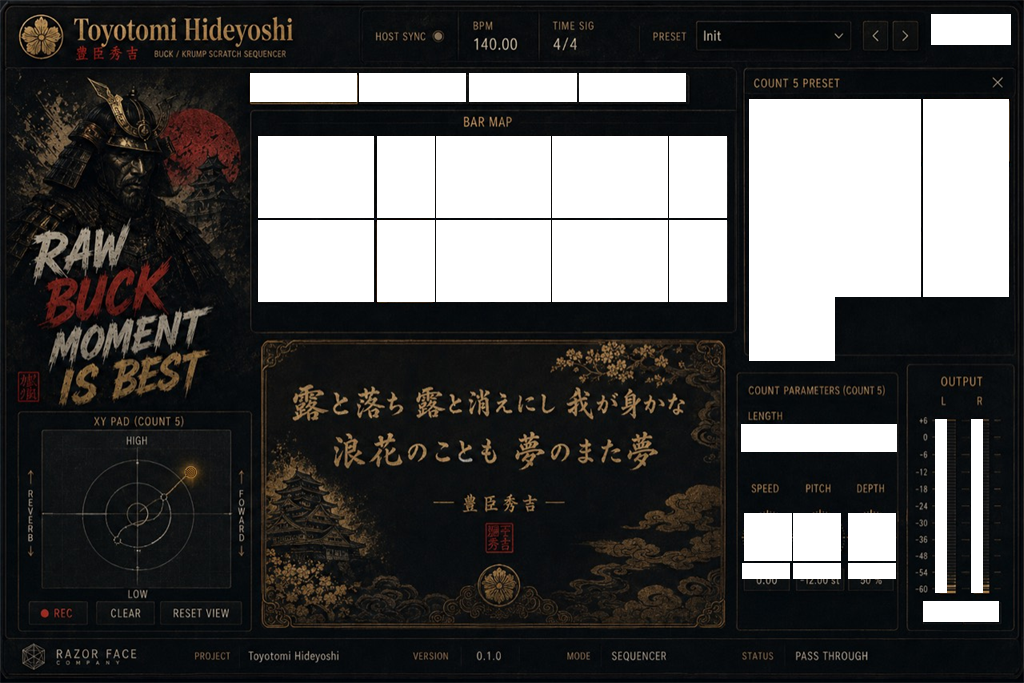
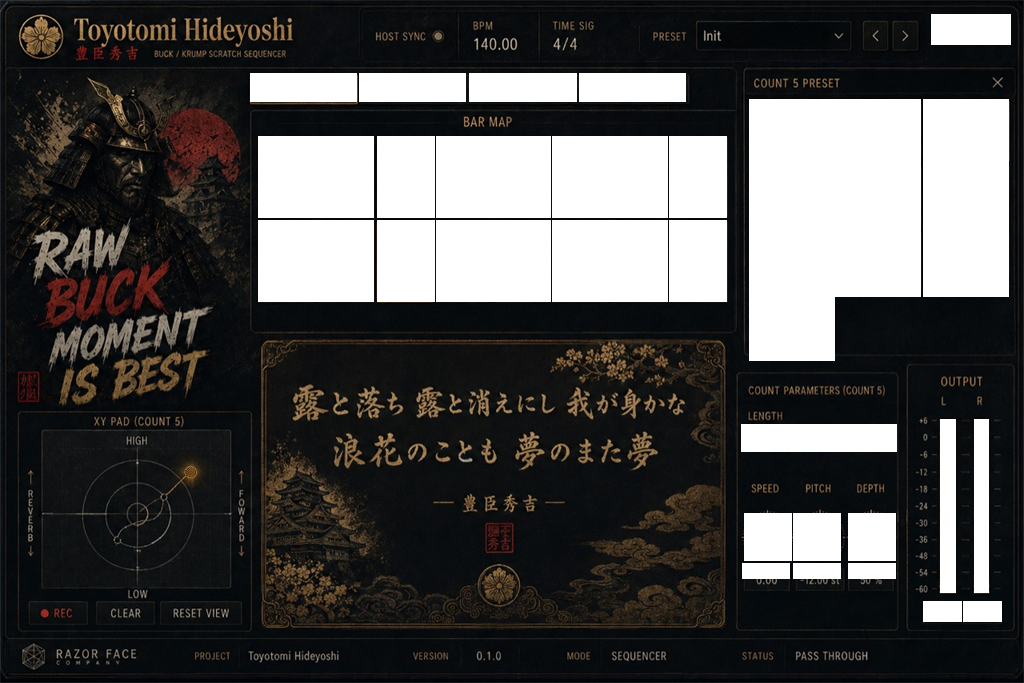
Fit output meter artwork to measured reference slots

Changed region(s): [[0.9062, 0.6149, 0.9688, 0.8917]]

diff --git a/tests/RuntimeSmokeTests.cpp b/tests/RuntimeSmokeTests.cpp
@@ -750,27 +750,45 @@ int main()
     // values, but no BAR/PRESET/LENGTH state image may be gold.
     state.selectTab (0); state.setBypass (false);
     const auto freshImage = render (*editor);
-    const auto visibleMeterCenter = [] (juce::Rectangle<int> bounds)
+    // Measure the independent reference's bottom lit segments. Do not compare
+    // implementation coordinates against constants from the same header.
+    const std::array<juce::Rectangle<int>, 2> referenceSearch {{{936,592,24,1},{970,592,23,1}}};
+    std::array<juce::Rectangle<int>, 2> expectedSlots;
+    for (int ch = 0; ch < 2; ++ch)
     {
-        return (float) bounds.getX() + GeneratedLayout::outputMeterVisibleCenterX;
-    };
-    pass &= check (freshImage.isValid()
-                && std::abs (visibleMeterCenter (GeneratedLayout::outputLBounds()) - GeneratedLayout::outputLSlotCenterX) <= 0.5f
-                && std::abs (visibleMeterCenter (GeneratedLayout::outputRBounds()) - GeneratedLayout::outputRSlotCenterX) <= 0.5f,
-                   "v2-output-visible-meter-center-layout-contract");
-    juce::AudioBuffer<float> outputLayoutProbe (2, 32); outputLayoutProbe.clear();
-    outputLayoutProbe.setSample (0, 0, 1.0f); outputLayoutProbe.setSample (1, 0, 1.0f);
-    juce::MidiBuffer outputLayoutMidi; processor.processBlock (outputLayoutProbe, outputLayoutMidi);
-    juce::Thread::sleep (50);
-    juce::Timer::callPendingTimersSynchronously();
-    const auto outputLayoutImage = render (*editor);
-    const auto renderedLeftMeter = visibleMeterBounds (outputLayoutImage, GeneratedLayout::outputLBounds());
-    const auto renderedRightMeter = visibleMeterBounds (outputLayoutImage, GeneratedLayout::outputRBounds());
-    const auto centerX = [] (juce::Rectangle<int> bounds) { return (float) bounds.getX() + (float) bounds.getWidth() / 2.0f; };
-    pass &= check (! renderedLeftMeter.isEmpty() && ! renderedRightMeter.isEmpty()
-                && std::abs (centerX (renderedLeftMeter) - GeneratedLayout::outputLSlotCenterX) <= 0.5f
-                && std::abs (centerX (renderedRightMeter) - GeneratedLayout::outputRSlotCenterX) <= 0.5f,
-                   "v2-output-rendered-visible-meter-center-ssot");
+        const auto edge = visibleMeterBounds (visualReference, referenceSearch[(size_t) ch]);
+        expectedSlots[(size_t) ch] = {edge.getX(),419,edge.getWidth(),174};
+    }
+    pass &= check (GeneratedLayout::outputLBounds() == expectedSlots[0]
+                && GeneratedLayout::outputRBounds() == expectedSlots[1], "v2-output-reference-slot-geometry");
+    const std::array<juce::Image, 2> preparedLeds {{resourceImage("output_meter_left_png"),resourceImage("output_meter_right_png")}};
+    for (int ch = 0; ch < 2; ++ch)
+        pass &= check (preparedLeds[(size_t) ch].getWidth() == expectedSlots[(size_t) ch].getWidth()
+                    && preparedLeds[(size_t) ch].getHeight() == expectedSlots[(size_t) ch].getHeight(),
+                       "v2-output-prepared-native-size");
+    for (const auto levels : std::array<std::array<float,2>,6> {{{{-60,-60}},{{6,-60}},{{-60,6}},{{-30,-30}},{{0,0}},{{6,6}}}})
+    {
+        v2->debugSetOutputMeterDb (levels[0],levels[1]);
+        const auto actual = render (*editor);
+        bool pixelsMatch = true;
+        for (int ch = 0; ch < 2; ++ch)
+        {
+            const auto slot = expectedSlots[(size_t) ch];
+            const auto fill = juce::roundToInt(juce::jmap(levels[(size_t) ch],-60.0f,6.0f,0.0f,(float)slot.getHeight()));
+            for (int y=0; y<slot.getHeight(); ++y)
+                for (int x=0; x<slot.getWidth(); ++x)
+                {
+                    // Peak hold may light two pixels immediately above fill.
+                    if (fill > 0 && y >= slot.getHeight()-fill)
+                        pixelsMatch &= actual.getPixelAt(slot.getX()+x,slot.getY()+y) == preparedLeds[(size_t) ch].getPixelAt(x,y);
+                    else if (fill == 0)
+                        pixelsMatch &= actual.getPixelAt(slot.getX()+x,slot.getY()+y).getBrightness() < 0.01f;
+                }
+        }
+        pass &= check(pixelsMatch,"v2-output-final-composite-fill-pixels");
+        pass &= check(png(actual,"v2-output-layout-"+juce::String((int)levels[0])+"-"+juce::String((int)levels[1])+".png"),"v2-output-layout-proof");
+    }
+    v2->debugSetOutputMeterDb(-60,-60);
     int freshGoldBars = 0, freshGoldPresets = 0, freshGoldLengths = 0;
     for (int index = 0; index < 16; ++index)
     {

diff --git a/tools/prepare_output_meter_geometry.py b/tools/prepare_output_meter_geometry.py
@@ -1,0 +1,72 @@
+"""Prepare only OUTPUT assets; preserve every pixel outside the OUTPUT panel."""
+from pathlib import Path
+import hashlib
+import json
+import re
+from PIL import Image, ImageChops, ImageDraw
+
+ROOT = Path(__file__).resolve().parents[1]
+RUNTIME = ROOT / 'Resources/ui-v2/runtime-1024'
+REPORT = ROOT / 'reports/latest/output-geometry'
+REPORT.mkdir(parents=True, exist_ok=True)
+reference_path = ROOT / 'Resources/ui-v2/reference/master-timeline-reference-1024x683.png'
+reference = Image.open(reference_path).convert('RGBA')
+face_path = RUNTIME / 'static/static_faceplate_1024x683.png'
+face = Image.open(face_path).convert('RGBA')
+before = face.copy()
+layout = (ROOT / 'Source/GeneratedLayout.h').read_text()
+
+def bounds(name):
+    m = re.search(name + r'\(\)\s*\{\s*return\s*\{\s*(\d+),\s*(\d+),\s*(\d+),\s*(\d+)', layout)
+    assert m, name
+    return tuple(map(int, m.groups()))
+
+def box(b):
+    x,y,w,h = b
+    return x,y,x+w,y+h
+
+def gold(c):
+    return c[0] > 80 and c[1] > 50 and c[0]-c[2] > 20
+
+led_path = RUNTIME / 'meter_led_strip.png'
+led = Image.open(led_path).convert('RGBA')
+points = [(x,y) for y in range(led.height) for x in range(led.width) if gold(led.getpixel((x,y)))]
+crop = (min(x for x,y in points), min(y for x,y in points), max(x for x,y in points)+1, max(y for x,y in points)+1)
+native = led.crop(crop)
+# Restore all previously cleared OUTPUT rectangles from the exact reference.
+# No global faceplate recomposition: unrelated approved fixes stay untouched.
+old = [(935,419,12,174),(971,419,12,174),(923,601,39,21),(960,601,39,21)]
+for b in old:
+    face.paste(reference.crop(box(b)), box(b))
+rows=[]
+for side,window in [('L',(936,960)),('R',(970,993))]:
+    b = bounds('output'+side+'Bounds')
+    # Independent reference evidence: bottom illuminated segment edges.
+    xs = [x for x in range(*window) if gold(reference.getpixel((x,592)))]
+    assert (b[0],b[2]) == (min(xs), max(xs)-min(xs)+1)
+    assert b[1:4:2] == (419,174)
+    prepared = native.resize((b[2],b[3]), Image.Resampling.LANCZOS)
+    prepared.save(RUNTIME / ('output_meter_'+('left' if side=='L' else 'right')+'.png'))
+    rows.append({'channel':side,'bounds':b,'reference_visible_center_x':(min(xs)+max(xs))/2,'readout':bounds('output'+side+'ReadoutBounds')})
+for name in ['outputLBounds','outputRBounds','outputLReadoutBounds','outputRReadoutBounds']:
+    b=bounds(name)
+    # Retain original RGB underneath the alpha mask.
+    patch=reference.crop(box(b)); patch.putalpha(0)
+    face.paste(patch, box(b))
+panel=bounds('outputPanelBounds')
+diff=ImageChops.difference(before,face)
+diff.paste((0,0,0,0),box(panel))
+assert not diff.getbbox(), 'Non-OUTPUT pixel changed'
+face.save(face_path)
+black=Image.new('RGBA',face.size,(0,0,0,255))
+composite=Image.alpha_composite(black,face)
+for side in ['L','R']:
+    b=bounds('output'+side+'Bounds')
+    composite.alpha_composite(Image.open(RUNTIME/('output_meter_'+('left' if side=='L' else 'right')+'.png')), (b[0],b[1]))
+comparison=Image.new('RGB',(panel[2]*3,panel[3]))
+for i,im in enumerate([reference,Image.alpha_composite(black,before),composite]):
+    comparison.paste(im.crop(box(panel)).convert('RGB'),(i*panel[2],0))
+comparison.resize((panel[2]*9,panel[3]*3)).save(REPORT/'reference-before-after.png')
+data={'reference':str(reference_path),'reference_sha256':hashlib.sha256(reference_path.read_bytes()).hexdigest(),'source_led_sha256':hashlib.sha256(led_path.read_bytes()).hexdigest(),'source_visible_crop':crop,'channels':rows,'outside_output_changed_pixels':0,'kind':'asset composite; JUCE/FL verification still required','worker':'Codex','token_savings_baseline':'unknown','token_savings_percentage':None}
+(REPORT/'measurement.json').write_text(json.dumps(data,ensure_ascii=False,indent=2),encoding='utf-8')
+print(json.dumps(data,ensure_ascii=False))

diff --git a/Source/PluginEditorV2.cpp b/Source/PluginEditorV2.cpp
@@ -256,10 +256,16 @@ class ToyotomiHideyoshiAudioProcessorEditorV2::OutputMeter final : public juce::
 {
 public:
     explicit OutputMeter (ToyotomiHideyoshiAudioProcessor& source)
-        : processor (source), meterLed (readAsset ("meter_led_strip.png"))
+        : processor (source), meterLeds {{ readAsset ("output_meter_left.png"), readAsset ("output_meter_right.png") }}
     {
         setOpaque (false);
         startTimerHz (30);
+    }
+
+    void setLevelsForVisualTest (float left, float right)
+    {
+        outputDb = {{ juce::jlimit (-60.0f, 6.0f, left), juce::jlimit (-60.0f, 6.0f, right) }};
+        outputPeakDb = outputDb;
     }
 
     void paint (juce::Graphics& g) override
@@ -275,6 +281,7 @@ public:
         }};
         for (size_t channel = 0; channel < tracks.size(); ++channel)
         {
+            const auto& meterLed = meterLeds[channel];
             const auto track = tracks[channel];
             const auto pixels = juce::roundToInt (juce::jmap (outputDb[channel], -60.0f, 6.0f,
                                                                0.0f, (float) track.getHeight()));
@@ -322,7 +329,7 @@ private:
     }
 
     ToyotomiHideyoshiAudioProcessor& processor;
-    juce::Image meterLed;
+    std::array<juce::Image, 2> meterLeds;
     std::array<float, 2> outputDb {{ -60.0f, -60.0f }};
     std::array<float, 2> outputPeakDb {{ -60.0f, -60.0f }};
 };
@@ -454,6 +461,7 @@ ToyotomiHideyoshiAudioProcessorEditorV2::ToyotomiHideyoshiAudioProcessorEditorV2
 }
 
 bool ToyotomiHideyoshiAudioProcessorEditorV2::hasValidBarMapAssets() const { return surface != nullptr && surface->barMapAssetsReady(); }
+void ToyotomiHideyoshiAudioProcessorEditorV2::debugSetOutputMeterDb (float left, float right) { outputMeter->setLevelsForVisualTest (left, right); }
 bool ToyotomiHideyoshiAudioProcessorEditorV2::validateInteractiveBounds() const
 {
     std::vector<juce::Rectangle<int>> expected;

diff --git a/Source/GeneratedLayout.h b/Source/GeneratedLayout.h
@@ -14,12 +14,10 @@ inline juce::Rectangle<int> speedReadoutBounds()    { return { 742, 563, 48, 16 
 inline juce::Rectangle<int> pitchReadoutBounds()    { return { 793, 563, 48, 16 }; }
 inline juce::Rectangle<int> depthReadoutBounds()    { return { 848, 563, 48, 16 }; }
 inline juce::Rectangle<int> outputPanelBounds()     { return { 907, 364, 107, 270 }; }
-inline constexpr float outputMeterVisibleCenterX = 7.5f;
-inline constexpr float outputLSlotCenterX = 942.5f;
-inline constexpr float outputRSlotCenterX = 978.5f;
-inline int outputMeterXForSlotCenter (float slotCenterX) { return juce::roundToInt (slotCenterX - outputMeterVisibleCenterX); }
-inline juce::Rectangle<int> outputLBounds()         { return { outputMeterXForSlotCenter (outputLSlotCenterX), 419, 12, 174 }; }
-inline juce::Rectangle<int> outputRBounds()         { return { outputMeterXForSlotCenter (outputRSlotCenterX), 419, 12, 174 }; }
+// Visible slot pixels measured from the approved reference, not label centres.
+// Channel PNGs are prepared at these native sizes with no dark side margins.
+inline juce::Rectangle<int> outputLBounds()         { return { 940, 419, 16, 174 }; }
+inline juce::Rectangle<int> outputRBounds()         { return { 974, 419, 15, 174 }; }
 inline juce::Rectangle<int> outputLReadoutBounds()  { return { 923, 601, 39, 21 }; }
-inline juce::Rectangle<int> outputRReadoutBounds()  { return { 960, 601, 39, 21 }; }
+inline juce::Rectangle<int> outputRReadoutBounds()  { return { 963, 601, 39, 21 }; }
 }

diff --git a/Source/PluginEditorV2.h b/Source/PluginEditorV2.h
@@ -18,6 +18,7 @@ public:
     bool hasValidBarMapAssets() const;
     bool validateInteractiveBounds() const;
     bool debugClickAt (juce::Point<int> point);
+    void debugSetOutputMeterDb (float left, float right);
 
 private:
     class Surface;
